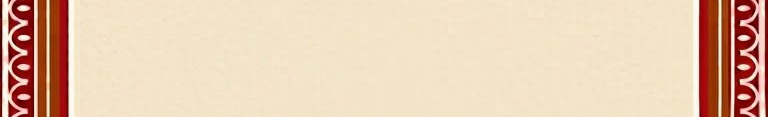
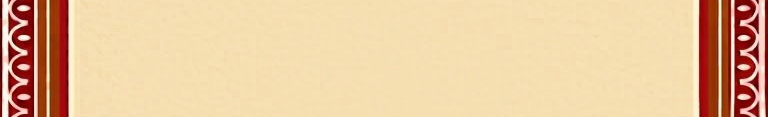
Couple card: its paper in the sections' warm sand (#F6DEB1)
The paper inside the couple card's arch and borders (couple-card.jpg,
and the repeating band couple-card-middle.png) is recoloured from its
cream (avg 244,228,201) to the section colour #F6DEB1. Each paper pixel
is scaled per channel by target / that average, so the grain stays; the
paper is found by flood fill from the middle, so the arch, the cream
accents and the borders are untouched; the band uses the card's
measurement, so the two meet without a seam.

diff --git a/README.md b/README.md
@@ -99,7 +99,7 @@ Each section has its own entrance. All of them respect *reduced motion*.
 |---|---|
 | Opening | The carved temple gate (`public/art/temple-door.webp`, Lakshmi above) in warm light, a golden fingertip tapping its brass lock above TAP TO OPEN. The gate shows as soon as the door image has loaded (the darshan artwork loads meanwhile). A tap, or 3.5 s of nothing, opens it (once): the doors part onto a dark doorway with light deep inside, hundreds of golden motes (one canvas, `opening/GoldDust.tsx`) and delicate rays pour out; the gate fades and is removed; on deep black Mahaprabhu Jagannath (`jagannath-darshan.webp`, sunburst masked away) emerges slowly through the motes in a soft halo; petals fall during the darshan; he dissolves into motes in his own shape, which swirl into a ring that settles onto the invitation's rangoli — about 6.5 s from the tap. Skip, Esc, or a tap anywhere during the darshan skips to the end. Sound (`lib/sound.ts`): the visitor's tap on the gate starts the devotional music (`assets.openingMusic`, or the synthesised sankha); at the opening's own finish, as the light settles onto the invitation, it fades out while the wedding song (`assets.weddingMusic`) fades in and then loops softly through the site. Browsers only allow sound after a tap, so if the gate opened by itself, the music starts at the visitor's next tap. The sound buttons mute and unmute it (remembered for the visit); it plays as media, so an iPhone's silent switch doesn't mute it, and pauses while the page is hidden. Repeat visits on the same device (`tila:opening-seen` in localStorage) get the short opening: the doors open (1.2 s) straight onto the invitation. `?intro=1` replays the full intro. With reduced motion there is no opening |
 | Invitation | The illustrated invitation card fits one screen: the card (`public/art/invitation/card.jpg`) with its toran and the trinity lifted into their own layers (`toran.webp`, `trinity.webp`); its plain middle band (`public/art/invitation-card-middle.png`) repeats so it fills any height undistorted. The panel is shared in three bands: the top art (the toran swaying gently from its top centre, the trinity 150–160px wide in a soft golden glow, the hanging lamps' flames flickering) about 27%; the words in the middle, centred (|| Jai Jagannath ||, the guest by name, Save the Date, the names at 52px with a gold &, are getting married, then a gold divider, the date as 12 · 02 · 2027 in Cinzel and the city in italics); and the rangoli (30% larger, turning slowly, a gold ring pulsing behind it until tapped) with Tap the rangoli about 27%. Reduced motion: nothing sways, flickers, turns or pulses |
-| Couple | The couple card (`public/art/couple-card.jpg`: carved arch in a red-and-gold border, cream matched to the invitation; the fine scrollwork in its upper corners and rosettes and two bright inner outlines of the arch are quieted) fills one screen on most phones. Inside it, in four groups (about 10px within a group, 24px between): a small dark red Ganesha (`public/art/ganesha-dark-red.png`), || Om Ganeshaya Namah || and the invite line; the couple's names — the focal point, large maroon serif with a small gold ampersand (a long name shrinks a little, then takes two lines); the date as a classic block (FRIDAY \| 12 \| FEB 2027 between delicate gold lines), then the venue and a small outlined "Add to calendar" (Google Calendar) together; a small lotus, the quote and the hashtag between gold rules, close above the illustrated couple seated at the sacred fire (`public/art/couple-havan.png`), which keeps clear of the bottom border. The arch settles in, then the names, date and venue, quote and couple rise in one after another; reduced motion: all simply there. Falling petals fade while it fills the screen |
+| Couple | The couple card (`public/art/couple-card.jpg`: carved arch in a red-and-gold border, its paper the same warm sand as the sections (#F6DEB1); the fine scrollwork in its upper corners and rosettes and two bright inner outlines of the arch are quieted) fills one screen on most phones. Inside it, in four groups (about 10px within a group, 24px between): a small dark red Ganesha (`public/art/ganesha-dark-red.png`), || Om Ganeshaya Namah || and the invite line; the couple's names — the focal point, large maroon serif with a small gold ampersand (a long name shrinks a little, then takes two lines); the date as a classic block (FRIDAY \| 12 \| FEB 2027 between delicate gold lines), then the venue and a small outlined "Add to calendar" (Google Calendar) together; a small lotus, the quote and the hashtag between gold rules, close above the illustrated couple seated at the sacred fire (`public/art/couple-havan.png`), which keeps clear of the bottom border. The arch settles in, then the names, date and venue, quote and couple rise in one after another; reduced motion: all simply there. Falling petals fade while it fills the screen |
 | Countdown | A cream card after the couple's design: "Our Wedding · ଶୁଭ ବିବାହ · The countdown to our Forever Begins", a round Sambalpuri-ikat medallion (`art/IkatWheel.tsx`, red, black and white pasapali checks and phula) that turns into place with the scroll, its cream heart divided into four by a fine cross with a small medallion at the centre, counting days, hours, mins and secs (labels in English and Odia); the date beneath. Ornaments in the couple card border's red |
 | Our Story | A story mural painted on a hanging scroll: the thread from the countdown's wheel comes down to a nail, and the scroll hangs from it by a string — maroon rods with wooden knobs, parchment between. Closed at first, it unrolls when it comes into view (the bottom rod travels down as the parchment is revealed, a little longer for a taller story, up to 3.6 s), and each part appears as the opening edge reaches it: "Two Hearts, One Journey", "Our Story", a gold lotus and `story.intro` in italics; then the chapters, each with a small illustration (`story.chapters[].art`) whose edge washes into warm beige and dissolves into the paper (baked into the picture; the couple keeps its own colours), alternating left and right, the words wrapping round it; after each chapter, a small gold lotus with a fine gold line curving gently out to a little sprig of leaves on either side (after the couple's design), drawing outward from the lotus as it appears, down to the couple (`couple.png`) and the hashtag spelled out in Cinzel ("#AVI WEDS PRAGYA"). Illustrations (the couple's, cropped round the couple in `public/art/story/`): chai at a roadside tea stall, a sunset with shared earphones, her hennaed hand on his in wedding clothes, and the bride and groom with joined hands raised. Falling petals fade while it is read (`data-no-petals`). Reduced motion: open, all of it there |
 | Events | Wedding Events as a vine timeline: a green vine zigzags from flower to flower (hand-drawn SVG marigold and white champa, in turn, on a thin vine with slim leaves and small buds), alternating left and right and growing as you scroll; under each flower the name, Odia name and a "Tap to view details" button that opens a card with the date, time, about, dress code and place (with "View map" when `mapUrl` is set). One card open at a time |
